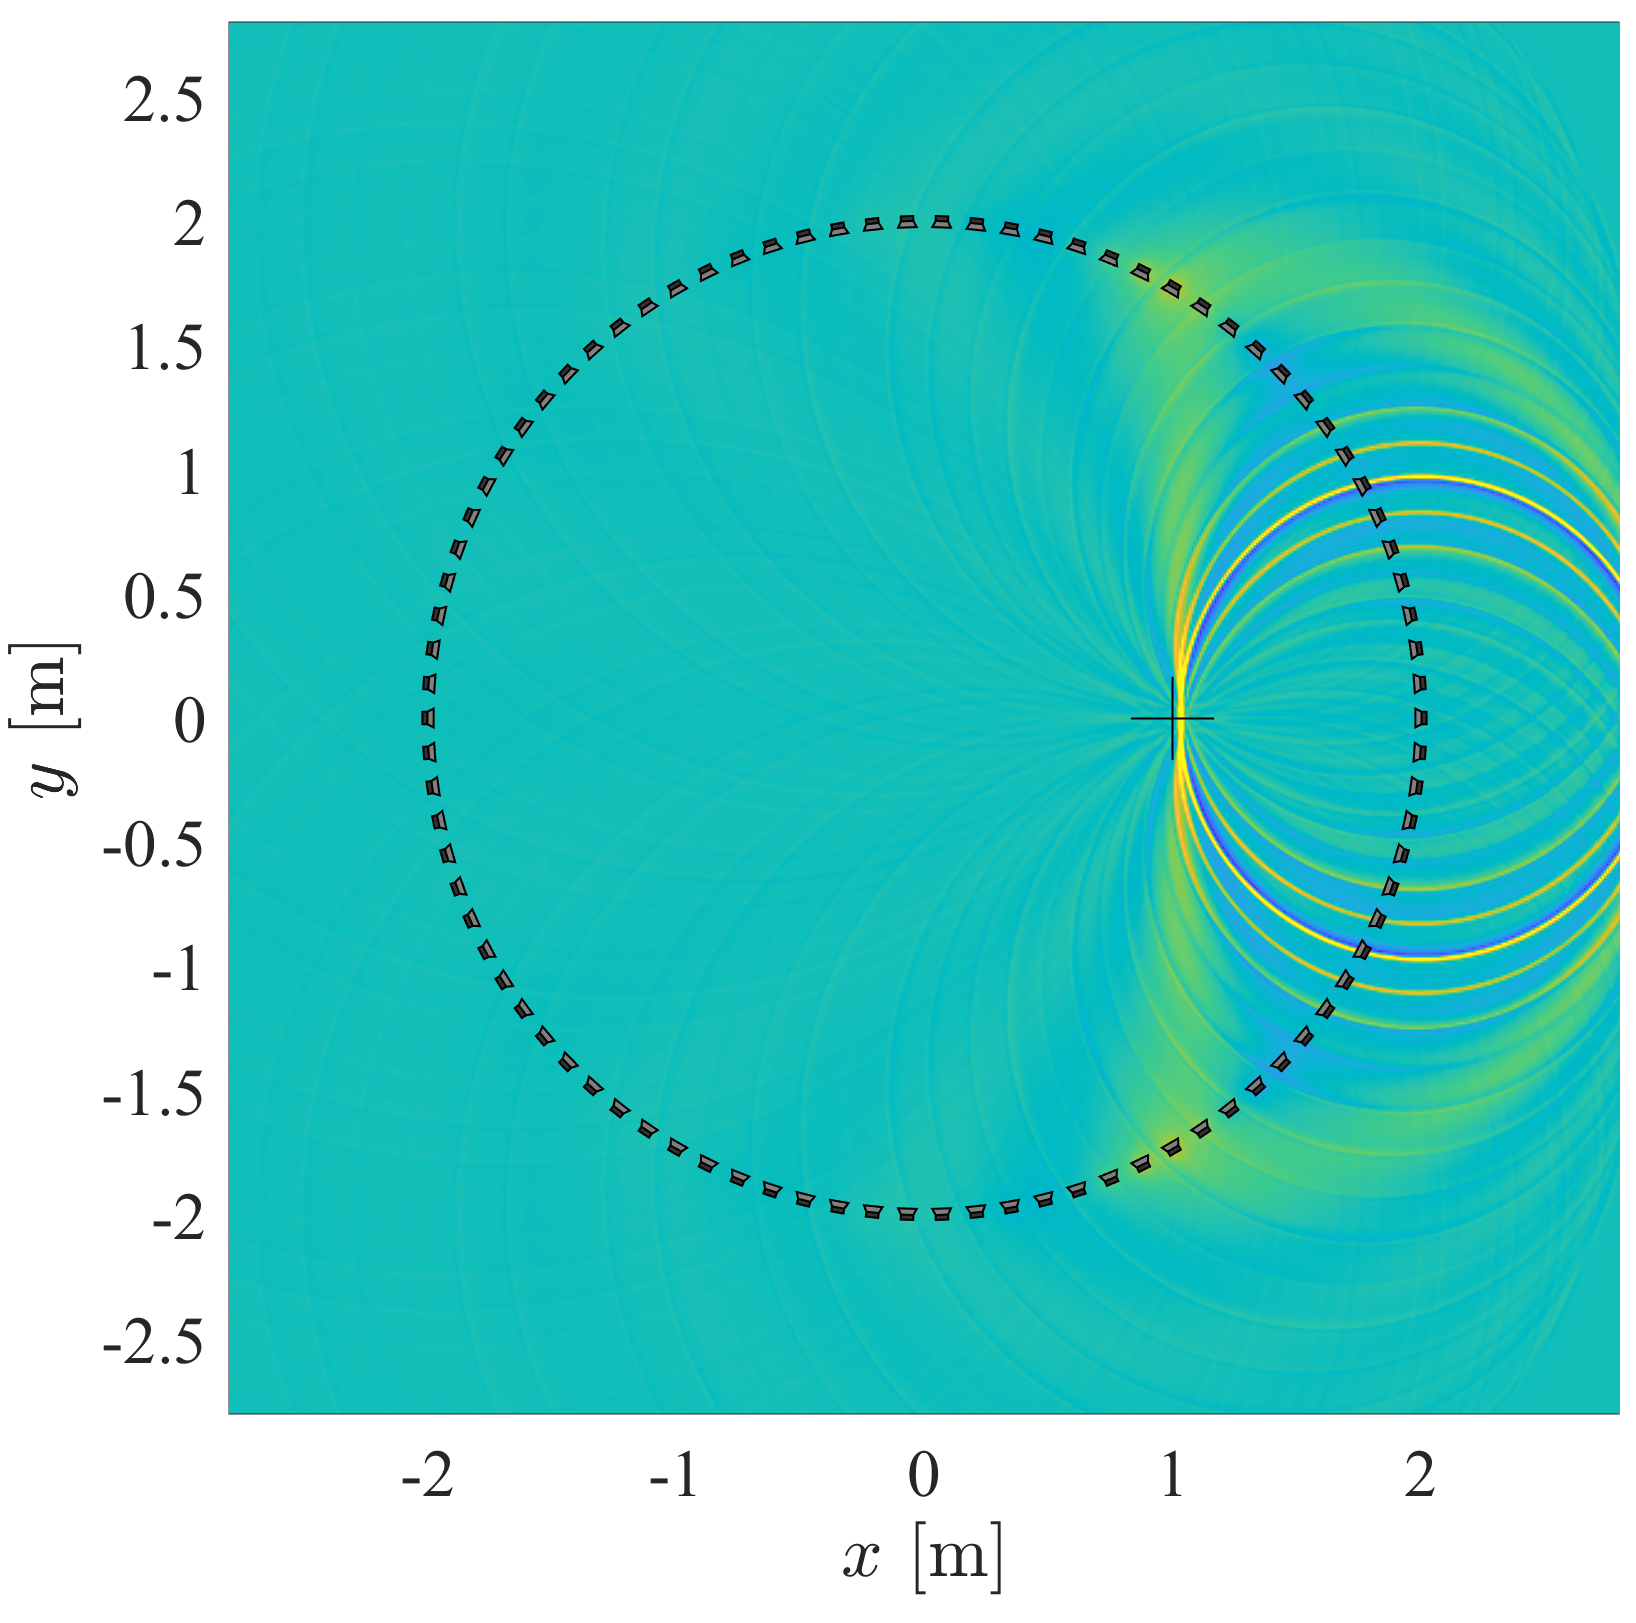
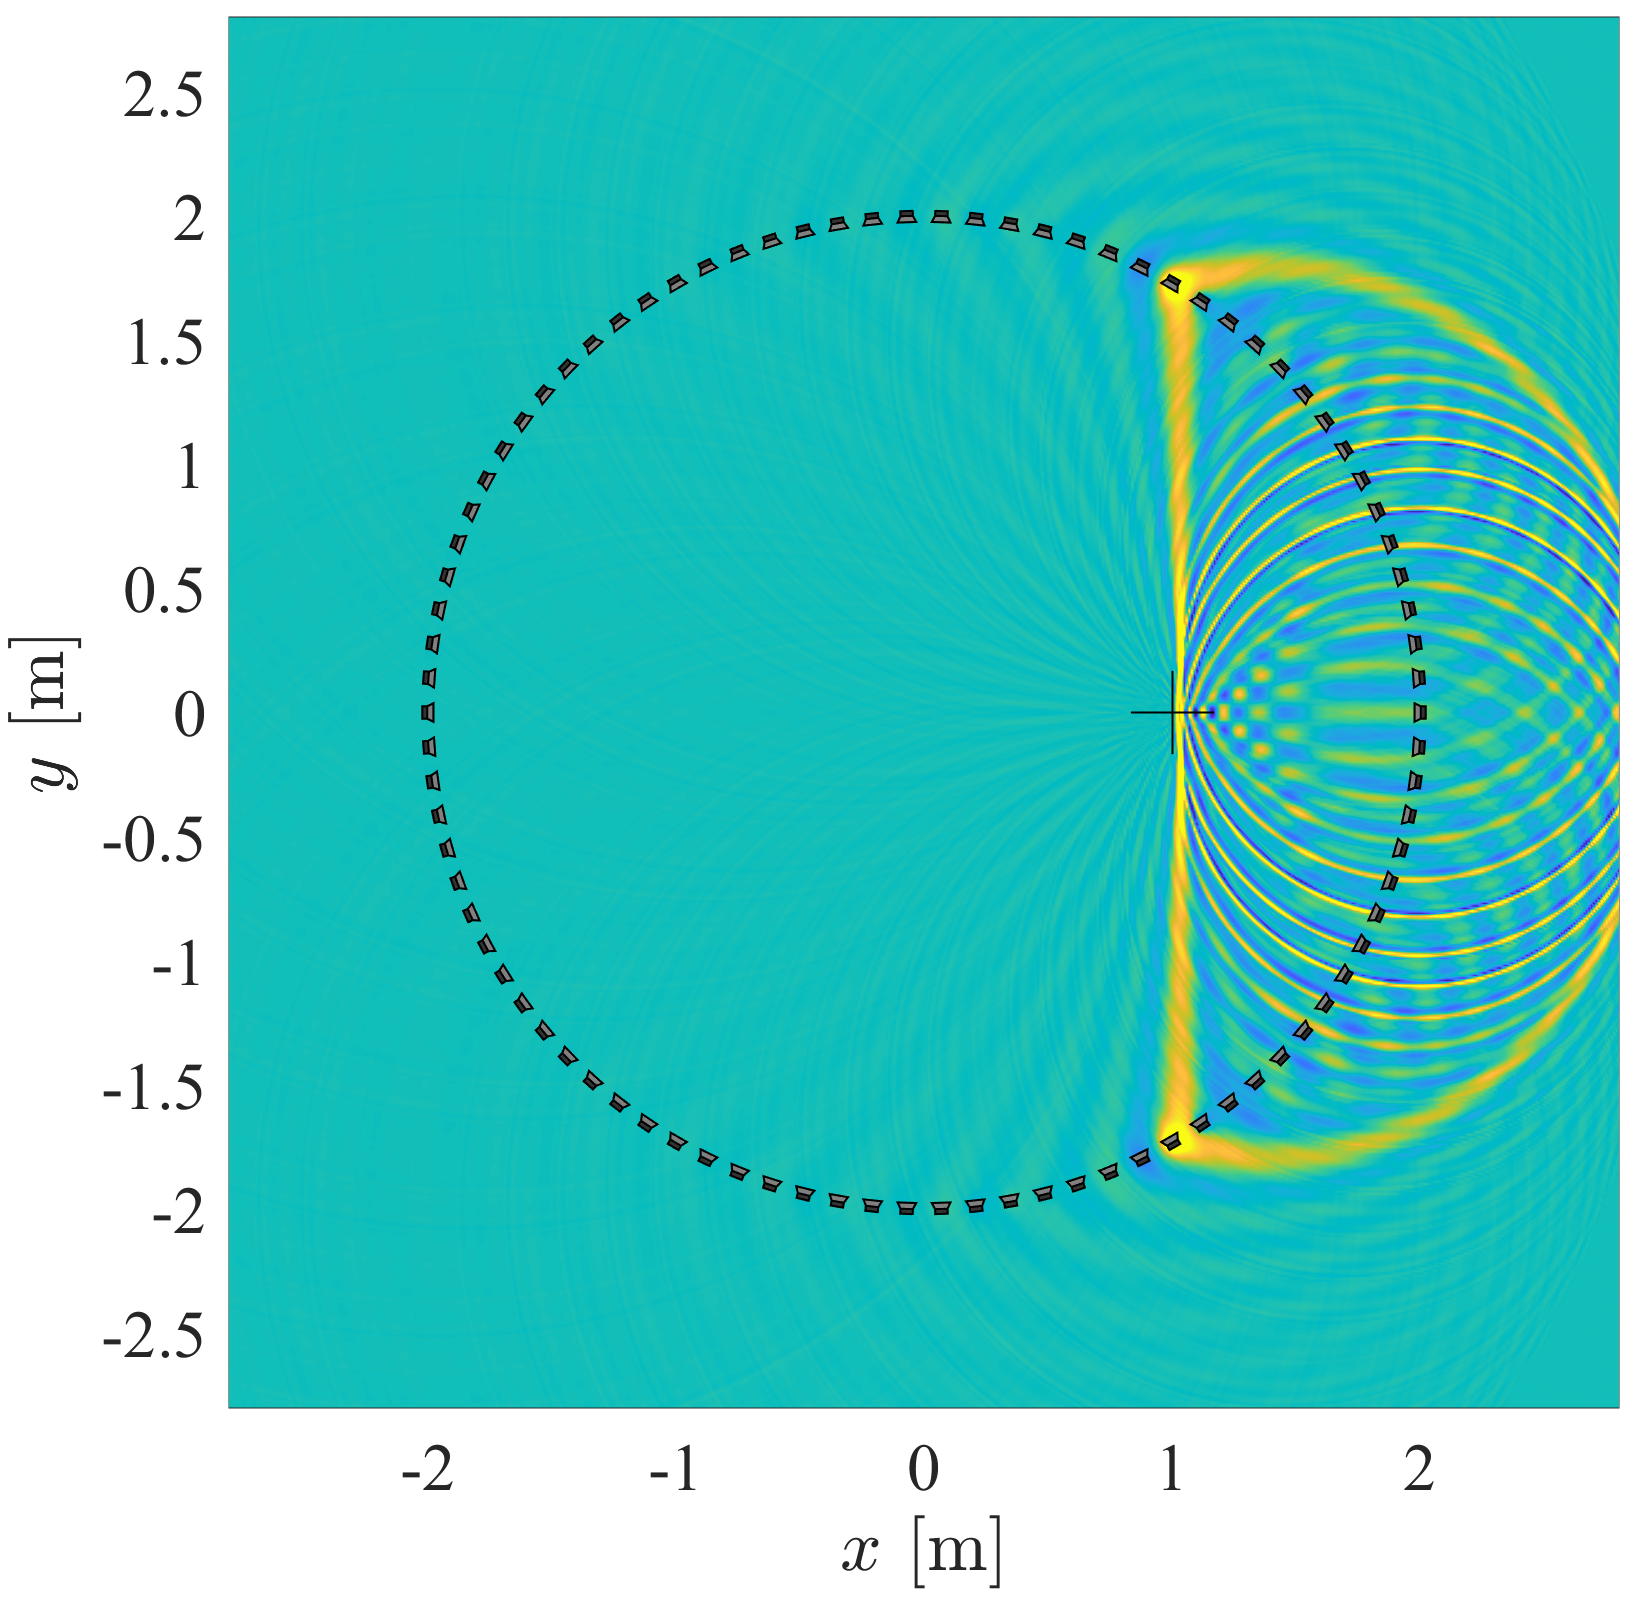
..

diff --git a/paper/main.tex b/paper/main.tex
@@ -474,7 +474,7 @@ Finally, the performance of the proposed Local Wave Field Synthesis approach is 
         \begin{overpic}[width = 0.45\columnwidth]{figs/nara_center.png}
             \footnotesize \put(0,2){(e)}
         \end{overpic} \hspace{3mm}
-        \begin{overpic}[width = 0.45\columnwidth]{figs/nara_right.png}
+        \begin{overpic}[width = 0.45\columnwidth]{figs/nara_left.png}
             \footnotesize \put(0,2){(f)}
         \end{overpic}\hspace{3mm}
         \begin{overpic}[width = 0.45\columnwidth]{figs/nara_front.png}
@@ -486,7 +486,7 @@ Finally, the performance of the proposed Local Wave Field Synthesis approach is 
         \begin{overpic}[width = 0.45\columnwidth]{figs/transfer_center.png}
             \footnotesize \put(0,2){(i)}
         \end{overpic} \hspace{3mm}
-        \begin{overpic}[width = 0.45\columnwidth]{figs/transfer_right.png}
+        \begin{overpic}[width = 0.45\columnwidth]{figs/transfer_left.png}
             \footnotesize \put(0,2){(j)}
         \end{overpic}\hspace{3mm}
         \begin{overpic}[width = 0.45\columnwidth]{figs/transfer_front.png}
